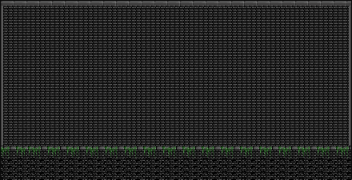
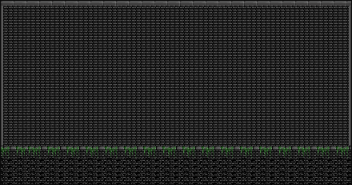
Added Fading during changing room

diff --git a/scripts/RevealingText.js b/scripts/RevealingText.js
@@ -1,0 +1,47 @@
+class RevealingText {
+    constructor(config) {
+        this.element = config.element;
+        this.text = config.text;
+        this.speed = config.speed || 200;
+
+        this.timeout = null;
+        this.isDone = false;
+    }
+
+    revealOneCharacter(list) {
+        const next = list.splice(0, 1)[0];
+        next.span.classList.add("revealed");
+
+        if (list.length > 0) {
+            this.timeout = setTimeout(() => {
+                this.revealOneCharacter(list);
+            }, next.delayAfter)
+        } else {
+            this.isDone = true;
+        }
+    }
+
+    warpToDone() {
+        clearTimeout(this.timeout);
+        this.isDone = true;
+        this.element.querySelectorAll("span").forEach(s => {
+            s.classList.add("revealed")
+        })
+    }
+
+    init() {
+        let characters = [];
+        this.text.split("").forEach(character => {
+            let span = document.createElement("span");
+            span.textContent = character;
+            this.element.appendChild(span);
+
+            characters.push({
+                span,
+                delayAfter: character === " " ? 0 : this.speed
+            })
+        });
+
+        this.revealOneCharacter(characters);
+    }
+}

diff --git a/scripts/TextMessage.js b/scripts/TextMessage.js
@@ -10,27 +10,38 @@ class TextMessage {
         this.element.classList.add("TextMessage");
 
         this.element.innerHTML = (`
-            <p class = "TextMessage_p">${this.text}</p>
+            <p class = "TextMessage_p"></p>
             <button class = "TextMessage_button">Next</button>
         `)
+
+        this.revealingText = new RevealingText({
+            element: this.element.querySelector(".TextMessage_p"),
+            text: this.text
+        })
 
         this.element.querySelector("button").addEventListener("click", () => {
             this.done();
         });
 
         this.actionListener = new KeyPressListener("Enter", () => {
-            this.actionListener.unbind();
             this.done();
         })
     }
 
     done() {
-        this.element.remove();
-        this.onComplete();
+        if (this.revealingText.isDone) {
+            this.element.remove();
+            this.actionListener.unbind();
+            this.onComplete();
+        } else {
+            this.revealingText.warpToDone();
+        }
+
     }
 
     init(container) {
         this.createElement();
         container.appendChild(this.element);
+        this.revealingText.init();
     }
 }

diff --git a/scripts/Overworld.js b/scripts/Overworld.js
@@ -56,18 +56,9 @@ class Overworld {
 
         this.startGameLoop();
 
-        // this.map.startCutscene([
-        //     { who: "hero", type: "walk", direction: "right" },
-        //     { who: "hero", type: "walk", direction: "right" },
-        //     { who: "hero", type: "walk", direction: "right" },
-        //     { who: "hero", type: "walk", direction: "right" },
-        //     { who: "hero", type: "walk", direction: "right" },
-        //     { who: "hero", type: "walk", direction: "right" },
-        //     { who: "hero", type: "walk", direction: "right" },
-        //     { who: "hero", type: "walk", direction: "right" },
-        //     { who: "hero", type: "walk", direction: "right" },
-
-        //     { type: "textMessage", text: "Who are you!!!???" }
-        // ])
+        this.map.startCutscene([
+            // { type: "changeMap", map: "Room2" }
+            { type: "textMessage", text: "Łot heppend" }
+        ])
     }
 }

diff --git a/index.html b/index.html
@@ -6,11 +6,12 @@
     <title>Dungeon destroyer</title>
     <link rel="stylesheet" type="text/css" href="styles/global.css">
     <link rel="stylesheet" type="text/css" href="styles/TextMessage.css">
+    <link rel="stylesheet" type="text/css" href="styles/SceneTransition.css">
 </head>
 
 <body>
     <div class="game-container">
-        <canvas class="game-canvas" width="352" height="198"></canvas>
+        <canvas class="game-canvas" width="352" height="185"></canvas>
     </div>
 
     <script src="scripts/utils.js"></script>
@@ -24,6 +25,8 @@
     <script src="scripts/OverworldEvent.js"></script>
     <script src="scripts/TextMessage.js"></script>
     <script src="scripts/KeyPressListener.js"></script>
+    <script src="scripts/RevealingText.js"></script>
+    <script src="scripts/SceneTransition.js"></script>
     <script src="scripts/init.js"></script>
 </body>
 

diff --git a/scripts/SceneTransition.js b/scripts/SceneTransition.js
@@ -1,0 +1,27 @@
+class SceneTransition {
+    constructor() {
+        this.element = null;
+    }
+
+    createElement() {
+        this.element = document.createElement("div");
+        this.element.classList.add("SceneTransition");
+    }
+
+    fadeOut() {
+        this.element.classList.add("fade-out");
+
+        this.element.addEventListener("animationend", () => {
+            this.element.remove();
+        }, { once: true })
+    }
+
+    init(container, callback) {
+        this.createElement();
+        container.appendChild(this.element);
+
+        this.element.addEventListener("animationend", () => {
+            callback();
+        }, { once: true })
+    }
+}

diff --git a/styles/SceneTransition.css b/styles/SceneTransition.css
@@ -1,0 +1,35 @@
+.SceneTransition {
+    position: absolute;
+    left: 0;
+    top: 0;
+    right: 0;
+    bottom: 0;
+
+    background: #000;
+    opacity: 0;
+    animation: scene-transition-fade-in 1.2s forwards;
+}
+
+.SceneTransition.fade-out {
+    animation: scene-transition-fade-out 1.2s forwards;
+}
+
+@keyframes scene-transition-fade-in {
+    from {
+        opacity: 0;
+    }
+
+    to {
+        opacity: 1;
+    }
+}
+
+@keyframes scene-transition-fade-out {
+    from {
+        opacity: 1;
+    }
+
+    to {
+        opacity: 0;
+    }
+}

diff --git a/scripts/OverworldEvent.js b/scripts/OverworldEvent.js
@@ -50,9 +50,13 @@ class OverworldEvent {
     }
 
     changeMap(resolve) {
-        this.map.overworld.startMap(window.OverworldMap[this.event.map]);
-        console.log(window.OverworldMap);
-        resolve();
+        const sceneTransition = new SceneTransition();
+        sceneTransition.init(document.querySelector(".game-container"), () => {
+            this.map.overworld.startMap(window.OverworldMap[this.event.map]);
+            resolve();
+
+            sceneTransition.fadeOut();
+        });
     }
 
     init() {

diff --git a/styles/TextMessage.css b/styles/TextMessage.css
@@ -4,7 +4,7 @@
     right: 0;
     bottom: 0;
 
-    height: 36px;
+    height: 30px;
     padding: 4px;
 
     background: var(--menu-background);
@@ -15,6 +15,14 @@
 .TextMessage_p {
     margin: 0;
     font-size: 12px;
+}
+
+.TextMessage span {
+    opacity: 0;
+}
+
+.TextMessage span.revealed {
+    opacity: 1;
 }
 
 .TextMessage_button {

diff --git a/scripts/Person.js b/scripts/Person.js
@@ -7,8 +7,8 @@ class Person extends GameObject {
         this.objectType == config.objectType;
 
         this.directionUpdate = {
-            "left": ["x", -1],
-            "right": ["x", 1],
+            "left": ["x", -2],
+            "right": ["x", 2],
         }
     }
 

diff --git a/styles/global.css b/styles/global.css
@@ -22,7 +22,7 @@ body {
 .game-container {
     position: relative;
     width: 352px;
-    height: 198px;
+    height: 185px;
     margin: 0 auto;
     /* outline: 1px solid white; */
 
